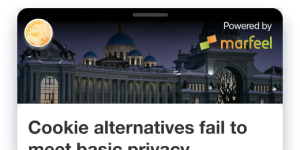
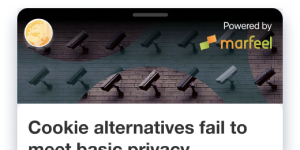
🍱 fix(BrandedContent) update assets (#72)

Changed region(s): [[0.03, 0.1867, 0.96, 0.6933], [0.06, 0.2667, 0.09, 0.2933]]

diff --git a/index.html b/index.html
@@ -277,6 +277,22 @@
 						</div>
 					</div>
 				</label>
+				<label>
+					<input name="experienceUrl" type="radio" value="croupier"
+						data-siteUrl="https://playground.marfeel.com/experiences/branded-content/branded-content-article.html" />
+					<div class="card">
+						<picture>
+							<source media="(max-width: 425px)" srcset="./assets/cards/card-branded-dfp-425w.png" />
+							<img class="card__image" src="./assets/cards/card-branded-dfp.png" />
+						</picture>
+						<div class="card__content">
+							<h3 class="card__title">Branded Content</h3>
+							<p class="card__text">
+								Define a branded content article from AdManager and load it in a Flowcard.
+							</p>
+						</div>
+					</div>
+				</label>
 			</div>
 		</form>
 	</div>
@@ -355,17 +371,17 @@
 
 			if (!!e.target.dataset.siteurl) {
 				textInput.value = e.target.dataset.siteurl;
-				cardTypeWrapper.classList.add('disabled');
+				cardTypeWrapper.classList.add('read-only');
 				isLastSiteUrlFixed = true;
 			} else {
-				cardTypeWrapper.classList.remove('disabled');
+				cardTypeWrapper.classList.remove('read-only');
 				textInput.value = customSiteUrl;
 				isLastSiteUrlFixed = false;
 			}
 
-			textInput.disabled = !!e.target.dataset.siteurl;
-			webInput.disabled = !!e.target.dataset.siteurl;
-			ampInput.disabled = !!e.target.dataset.siteurl;
+			textInput.readOnly = !!e.target.dataset.siteurl;
+			webInput.readOnly = !!e.target.dataset.siteurl;
+			ampInput.readOnly = !!e.target.dataset.siteurl;
 		};
 
 		cards.forEach(card => {

diff --git a/experiences/branded-content/branded-content-article.html b/experiences/branded-content/branded-content-article.html
@@ -9,6 +9,9 @@
 	<title>Branded Content example</title>
 
 	<script async="async" src="https://securepubads.g.doubleclick.net/tag/js/gpt.js"></script>
+	<script type="text/javascript">
+		window.__newsroom_js={accountId:0},window.__newsroom_js.data=window.__newsroom_js.data||[],function(){var e=document.createElement("script");e.async=!0,e.type="text/javascript",e.src="https://events.newsroom.bi/js/tracker.js?cb="+Math.round(Date.now()/1e5);var t=document.getElementsByTagName("script")[0];t.parentNode.insertBefore(e,t)}();
+	</script>
 </head>
 
 <body class="fc-body">
@@ -134,15 +137,6 @@
 	<div id="flowcards-slot"></div>
 	
 	<script type="text/javascript">
-		window['__newsroom_js'] = {
-			data: {
-				push: data => {
-					const callback = data[1];
-					(typeof callback === 'function') && callback();
-				}
-			}
-		};
-
 		function initFlowcards() {
 			window.marfeel = window.marfeel || {};
 			window.marfeel.flowcards = window.marfeel.flowcards || { que: [] };

diff --git a/experiences/branded-content/branded-content-card.html b/experiences/branded-content/branded-content-card.html
@@ -101,7 +101,8 @@
 		}
 
 		.fc-img.branded {
-			height: 40vw;
+			height: 123px;
+			width: 100%;
 		}
 
 		.metas {
@@ -150,8 +151,11 @@
 </head>
 
 <body class="fc-body">
-	<amp-img class="fc-img branded" layout="fixed-height" height="135"
-		src="../../assets/experiences/branded-content-top.png"></amp-img>
+	<picture>
+		<source src="https://${CURRENT_HOSTNAME}/assets/experiences/branded-content-top.webp" type="image/webp" />
+		<source src="https://${CURRENT_HOSTNAME}/assets/experiences/branded-content-top.png" type="image/png" />
+		<img class="fc-img branded" lazy="loading" src="https://${CURRENT_HOSTNAME}/assets/experiences/branded-content-top.png" />
+	</picture>
 	<article class="fc-article">
 		<h1 class="branded">Cookie alternatives fail to meet basic privacy expectations</h1>
 		<p>Trees have been around for some 370 million years. These long-lived woody plants can be found on every

diff --git a/css/styles.css b/css/styles.css
@@ -97,8 +97,8 @@ form {
   border-color: var(--secondary-color);
 }
 
-input#siteUrl:disabled,
-.card-type.disabled {
+input#siteUrl:read-only,
+.card-type.read-only {
   opacity: 0.3;
 }
 
